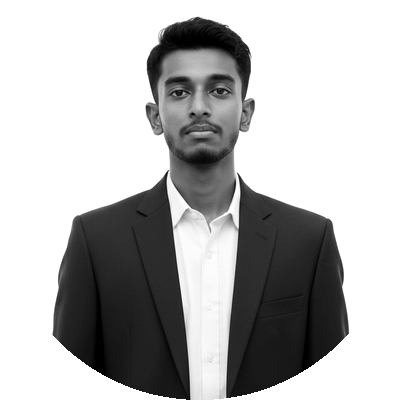
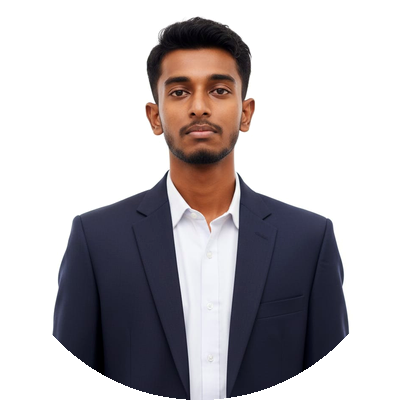
Use a color portrait and drop the GitHub text link from the website line.

diff --git a/email.html b/email.html
@@ -39,8 +39,6 @@
               <tr>
                 <td style="font-family:Arial,Helvetica,sans-serif;font-size:13px;line-height:1.7;padding:2px 0 14px 0;">
                   <a href="https://portfolio-thaksigan.vercel.app/" target="_blank" style="color:#1A9B96;text-decoration:none;">portfolio-thaksigan.vercel.app</a>
-                  <span style="color:#1A9B96;">&nbsp;|&nbsp;</span>
-                  <a href="https://github.com/Thaksigan23" target="_blank" style="color:#1A9B96;text-decoration:none;">GitHub</a>
                   <span style="color:#1A9B96;">&nbsp;&rarr;</span>
                 </td>
               </tr>

diff --git a/scripts/generate_assets.py b/scripts/generate_assets.py
@@ -50,12 +50,10 @@ def make_portrait() -> None:
         top = h - side
     cropped = src.crop((left, top, left + side, top + side))
     cropped = cropped.resize((PHOTO_SIZE, PHOTO_SIZE), Image.Resampling.LANCZOS)
+    cropped = ImageEnhance.Contrast(cropped).enhance(1.04)
+    cropped = ImageEnhance.Color(cropped).enhance(1.05)
 
-    gray = ImageOps.grayscale(cropped).convert("RGB")
-    gray = ImageEnhance.Contrast(gray).enhance(1.08)
-    gray = ImageEnhance.Brightness(gray).enhance(1.02)
-
-    rgba = gray.convert("RGBA")
+    rgba = cropped.convert("RGBA")
     rgba.putalpha(circle_mask(PHOTO_SIZE))
     rgba.save(ASSETS / "profile-circle.png", "PNG")
     print("wrote profile-circle.png")
